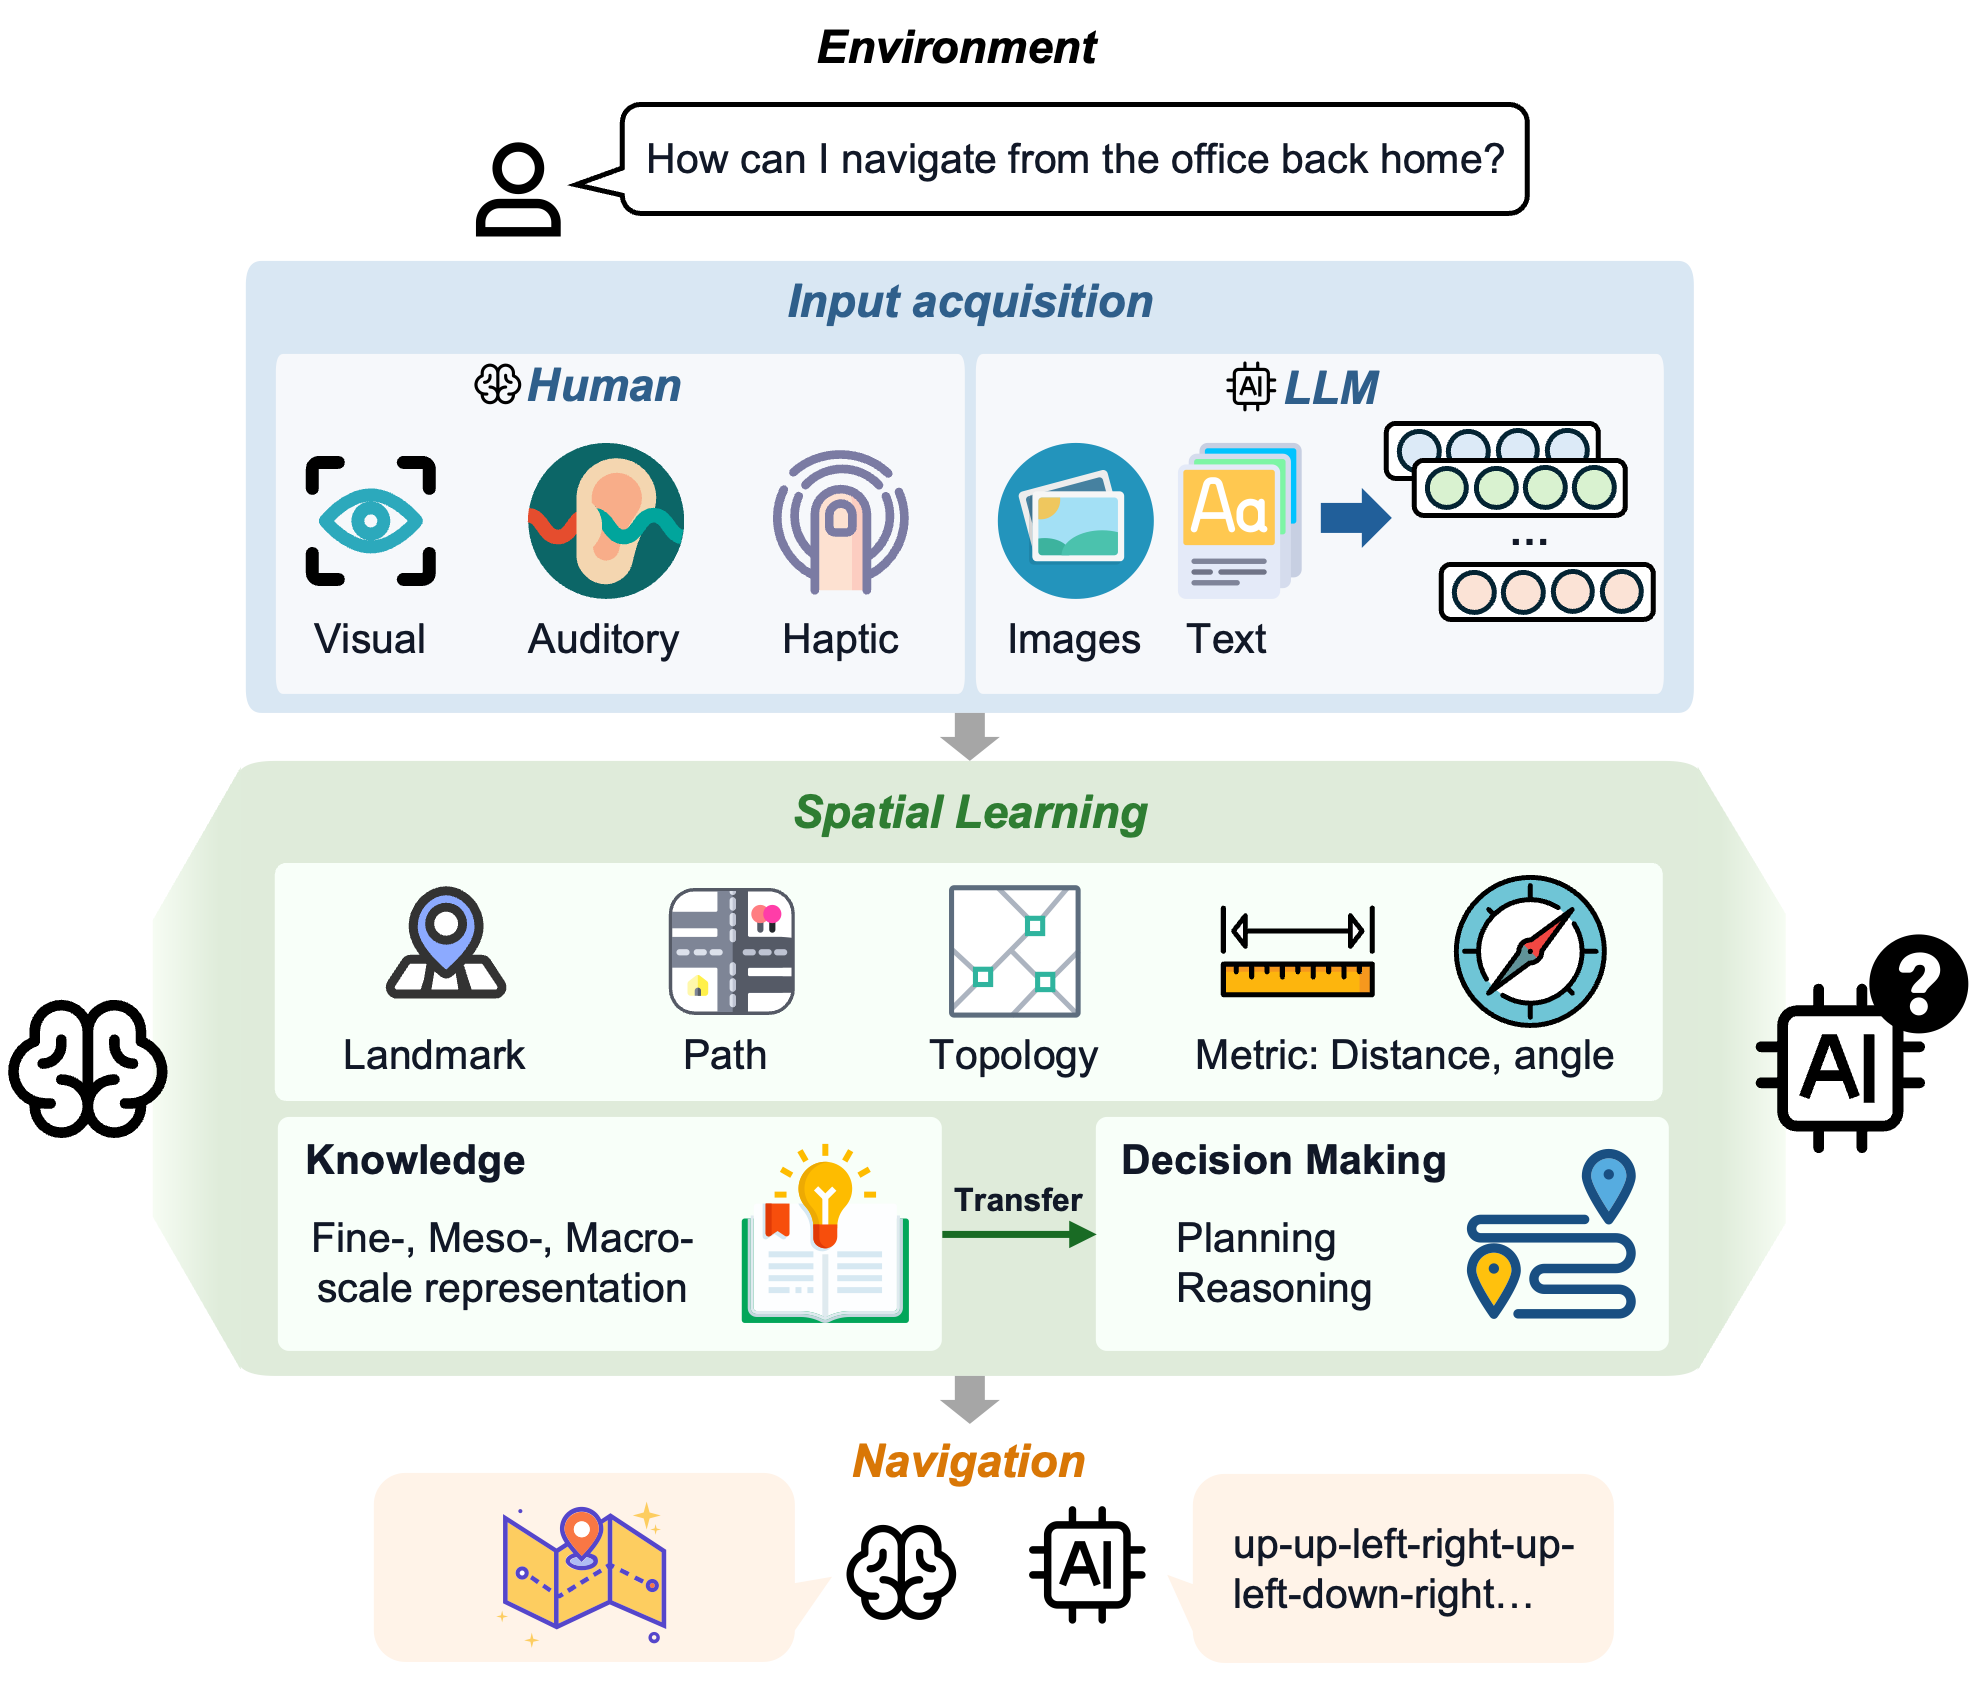
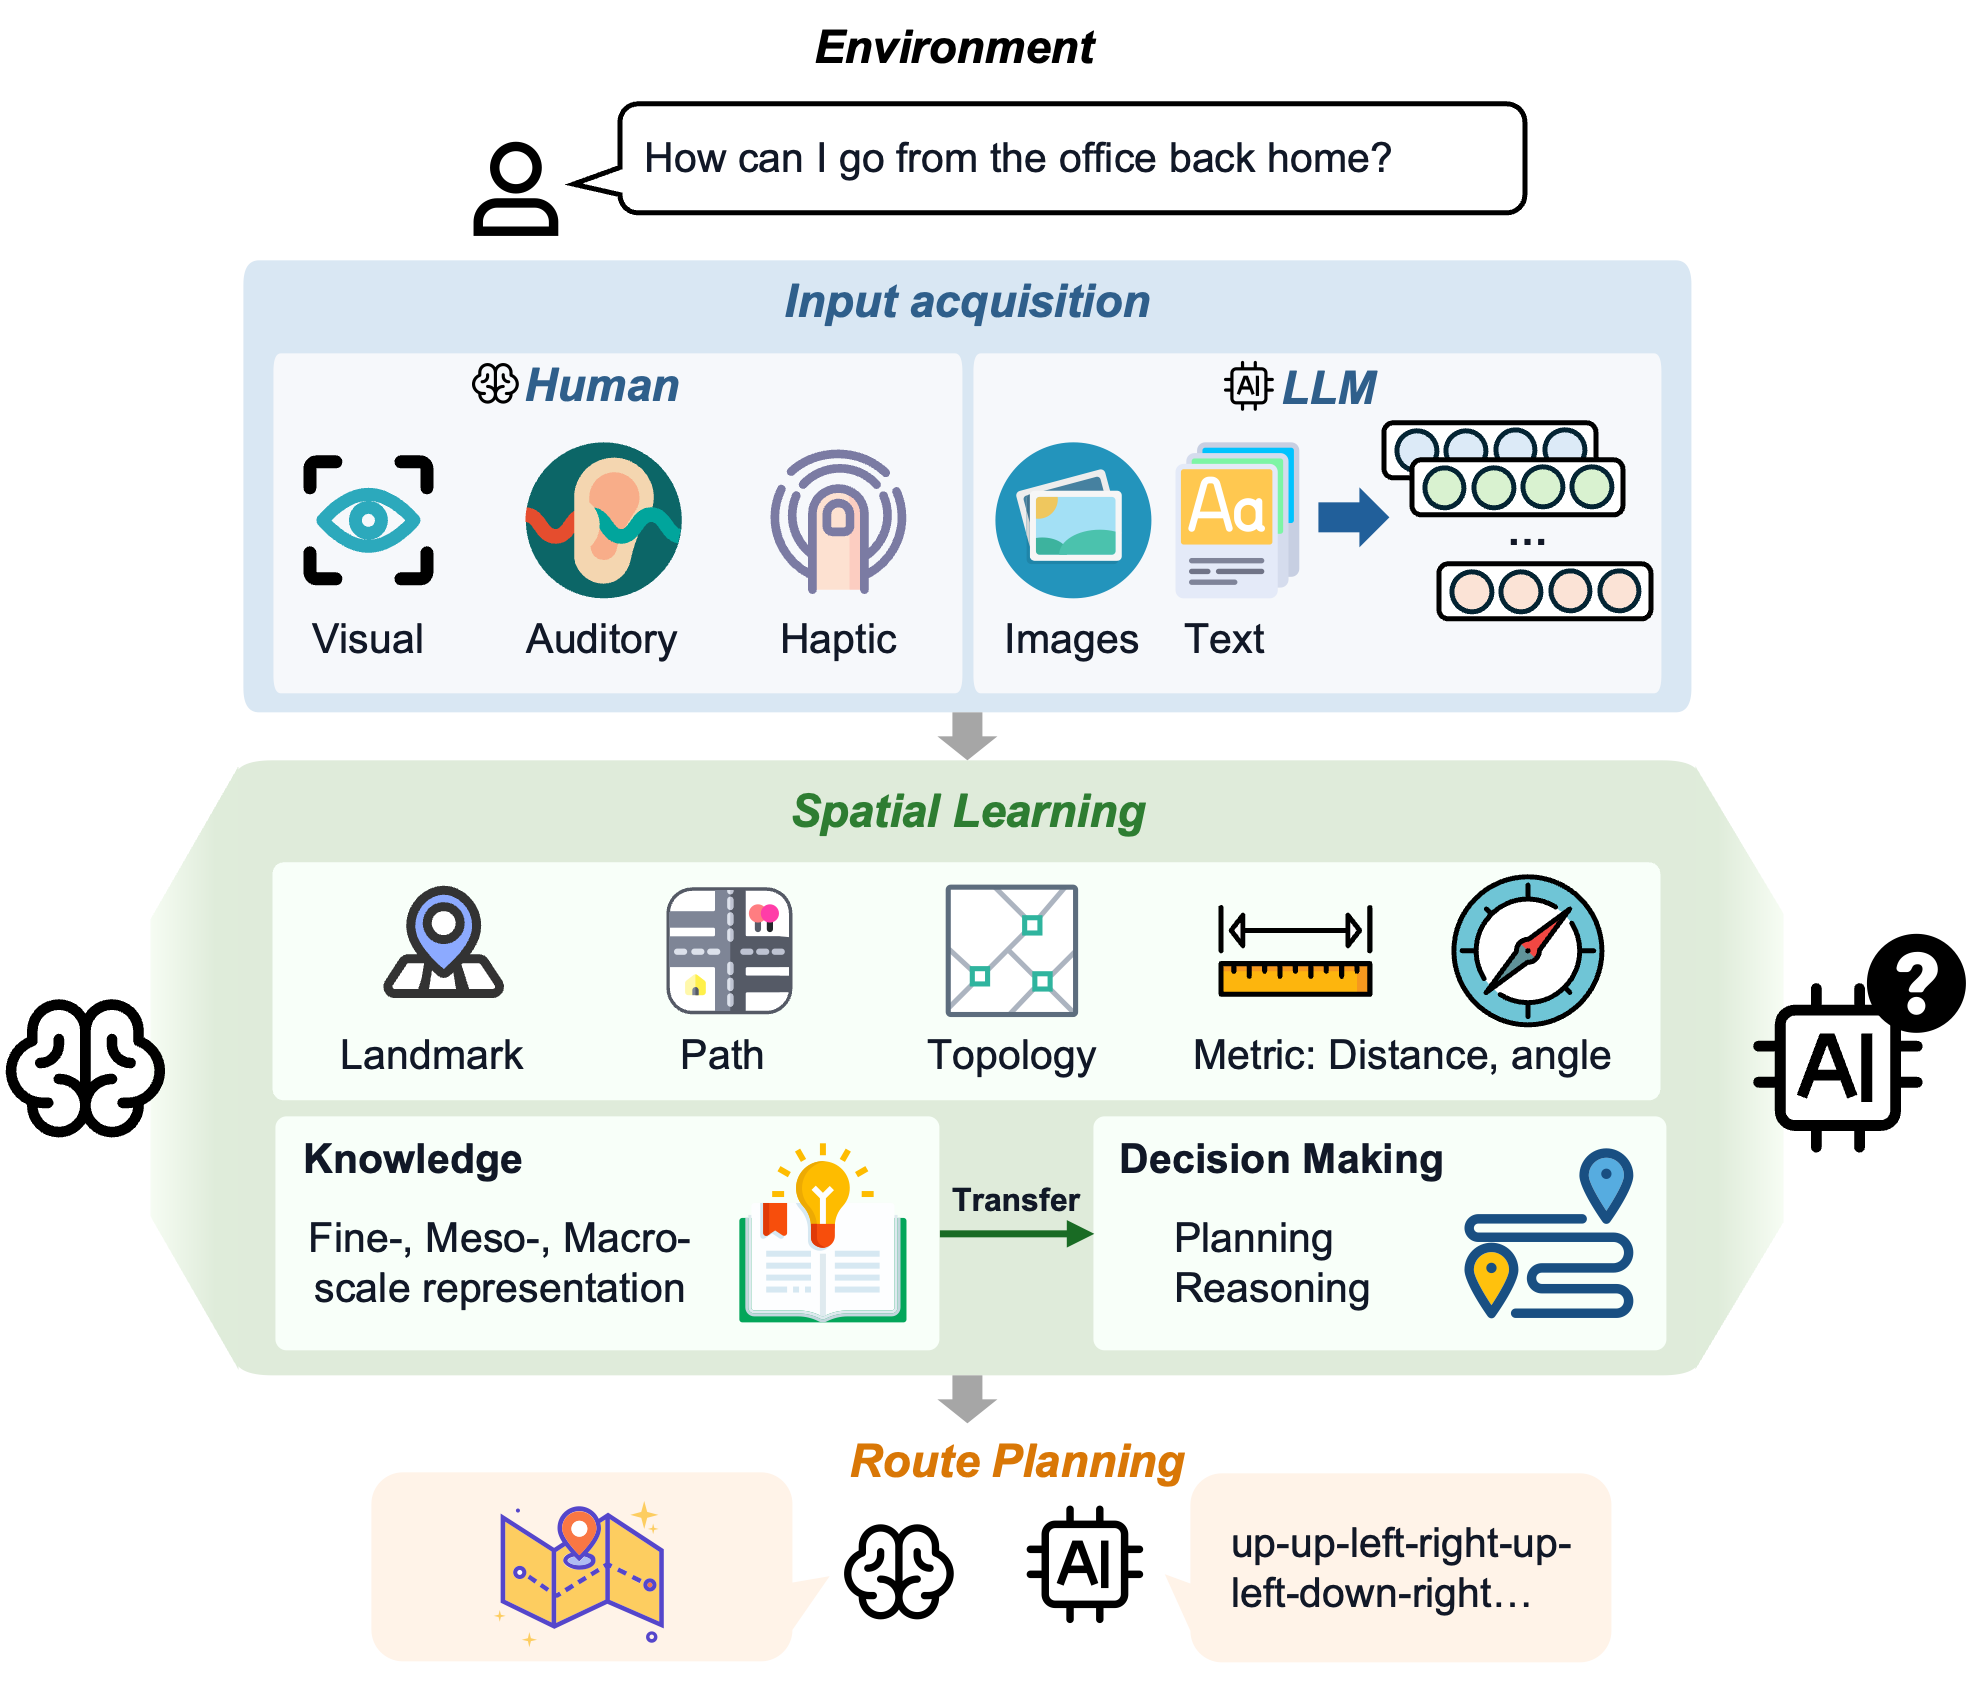
Sync title, abstract, and framework figures with the latest manuscript
Title is now "...for LLM Route Planning" across the page, metadata, BibTeX,
READMEs, and the social card. Abstract follows the current manuscript.
Framework (Figure 1) and benchmark overview (Figure 2, now with the
street-network module) are replaced with the manuscript versions.

diff --git a/docs/index.html b/docs/index.html
@@ -3,22 +3,22 @@
 <head>
 <meta charset="utf-8" />
 <meta name="viewport" content="width=device-width, initial-scale=1.0" />
-<title>Lost in Aggregation — A Multi-Scale Diagnostic Benchmark for LLM Spatial Navigation</title>
-<meta name="description" content="A cognitively grounded, multi-scale diagnostic benchmark for LLM spatial navigation: 1,050 topology-annotated mazes across seven sizes and three difficulty tiers, plus 90 real street-network routes in Munich, Tokyo, and Toronto." />
+<title>Lost in Aggregation — A Multi-Scale Diagnostic Benchmark for LLM Route Planning</title>
+<meta name="description" content="A multi-scale diagnostic benchmark for LLM route planning: 1,050 topology-annotated mazes across seven sizes and three difficulty tiers, plus 90 real street-network routes in Munich, Tokyo, and Toronto." />
 
 <!-- Social preview (Open Graph + Twitter). Absolute URLs required by crawlers. -->
 <meta property="og:type" content="website" />
 <meta property="og:site_name" content="Lost in Aggregation" />
 <meta property="og:url" content="https://yuhanjiang415.github.io/lost-in-aggregation/" />
-<meta property="og:title" content="Lost in Aggregation: A Multi-Scale Diagnostic Benchmark for LLM Spatial Navigation" />
-<meta property="og:description" content="Where do LLMs get lost in spatial navigation? A diagnostic benchmark of 1,050 topology-annotated mazes that localizes the failure to cross-scale aggregation." />
+<meta property="og:title" content="Lost in Aggregation: A Multi-Scale Diagnostic Benchmark for LLM Route Planning" />
+<meta property="og:description" content="Where do LLMs get lost in route planning? 1,050 topology-annotated mazes and 90 OpenStreetMap routes that separate isolated spatial judgments from complete-route success." />
 <meta property="og:image" content="https://yuhanjiang415.github.io/lost-in-aggregation/assets/og-image.png" />
 <meta property="og:image:width" content="1200" />
 <meta property="og:image:height" content="630" />
 <meta property="og:image:alt" content="Lost in Aggregation — a robot navigating a maze on a decision-point density heatmap." />
 <meta name="twitter:card" content="summary_large_image" />
-<meta name="twitter:title" content="Lost in Aggregation: A Multi-Scale Diagnostic Benchmark for LLM Spatial Navigation" />
-<meta name="twitter:description" content="Where do LLMs get lost in spatial navigation? 1,050 topology-annotated mazes that localize the failure to cross-scale aggregation." />
+<meta name="twitter:title" content="Lost in Aggregation: A Multi-Scale Diagnostic Benchmark for LLM Route Planning" />
+<meta name="twitter:description" content="Where do LLMs get lost in route planning? 1,050 mazes and 90 OpenStreetMap routes that separate isolated spatial judgments from complete-route success." />
 <meta name="twitter:image" content="https://yuhanjiang415.github.io/lost-in-aggregation/assets/og-image.png" />
 
 <style>
@@ -294,7 +294,7 @@
     <span class="venue">Preprint · Under review</span>
     <h1 class="title">
       Lost in Aggregation
-      <span class="sub">A Multi-Scale Diagnostic Benchmark for LLM Spatial Navigation</span>
+      <span class="sub">A Multi-Scale Diagnostic Benchmark for LLM Route Planning</span>
     </h1>
 
     <div class="authors">
@@ -318,8 +318,8 @@
 <section>
   <div class="wrap">
     <figure class="framed">
-      <img src="assets/figures/framework_intro.png" alt="From spatial input to navigation: where LLMs differ from human spatial cognition." loading="lazy" />
-      <figcaption><b>From spatial input to navigation.</b> The benchmark diagnoses LLM navigation by decomposing it into the same representational levels that structure human spatial cognition — <b style="color:var(--blue)">Fine</b> (local passability), <b style="color:var(--blue)">Meso</b> (junction topology), and <b style="color:var(--blue)">Macro</b> (global goal direction) — and probes each in isolation.</figcaption>
+      <img src="assets/figures/framework_intro.png" alt="Conceptual framework comparing human and LLM spatial cognition, from input acquisition through spatial learning to route planning." loading="lazy" />
+      <figcaption><b>From spatial input to route planning.</b> The benchmark diagnoses LLM route planning by decomposing it into the same representational levels that structure human spatial cognition — <b style="color:var(--blue)">Fine</b> (local passability), <b style="color:var(--blue)">Meso</b> (junction topology), and <b style="color:var(--blue)">Macro</b> (global goal direction) — and probes each in isolation.</figcaption>
     </figure>
   </div>
 </section>
@@ -328,9 +328,9 @@
 <section class="alt">
   <div class="wrap">
     <h2 class="sec"><span class="kicker">Overview</span>Abstract</h2>
-    <p>Large language models (LLMs) are increasingly deployed as planners and assistants in tasks with inherent spatial structure, such as navigation and route planning, yet they remain brittle in sequential spatial reasoning. We ask not merely <em>whether</em> LLMs fail at navigation but <em>where</em> in the spatial-cognition pipeline they get lost.</p>
-    <p>We introduce a multi-scale diagnostic benchmark that decomposes maze navigation into three cognitive levels drawn from human spatial cognition: <b>Fine</b> (local passability), <b>Meso</b> (junction topology), and <b>Macro</b> (global goal direction). We evaluate three instruction-tuned chat LLMs (GPT-4o, DeepSeek-V3.1, Llama-3.3-70B) on 1,050 topology-annotated mazes spanning seven sizes (3×3 to 30×30) and three difficulty tiers.</p>
-    <p>The central finding: end-to-end one-shot navigation collapses to near zero by 10×10 for every model, yet the same models answer isolated single-level probes at 30–75% far beyond that size. A multi-hot first-error analysis localizes failures to Meso junction choices (59%) and Fine perception (39%), with global direction almost never at fault (1%). <b>The barrier is the cross-scale <em>aggregation</em> of individually available competences over a long sequential plan — not any single perceptual deficit.</b></p>
+    <p>Large language models (LLMs) struggle with sequential spatial planning, but aggregate success rates provide little insight into where failures occur. We present a multi-scale benchmark that separates local passability (<b>Fine</b>), junction topology (<b>Meso</b>), and goal orientation (<b>Macro</b>). We evaluate three LLMs on 1,050 mazes spanning seven sizes and compare four input formats. Coordinate lists are the most effective text encoding overall.</p>
+    <p>Isolated probes assess individual spatial judgments, while one-shot planning requires the model to aggregate many such judgments into a complete route. At 10×10, complete-route success falls to 0 to 6%, while isolated-probe accuracy remains approximately 30 to 75%. Success on individual judgments therefore does not ensure reliable route generation. First errors occur mainly at the Meso (59%) and Fine (39%) scales, with Macro errors accounting for about 1%.</p>
+    <p>On 90 OpenStreetMap routes in three cities, GPT-4o’s isolated junction-choice accuracy reaches 64.7%, compared with 13.3% complete-route success. Most of its failed routes included a nonexistent street connection, often a final jump onto the destination. <b>These findings suggest that difficulties in coordinating Fine, Meso, and Macro judgments contribute to route-planning failures.</b></p>
 
     <div class="stats" style="margin-top:30px">
       <div class="stat"><div class="num">1,050</div><div class="lab">topology-annotated mazes</div></div>
@@ -371,8 +371,8 @@
   <div class="wrap">
     <h2 class="sec"><span class="kicker">The Benchmark</span>Design at a glance</h2>
     <figure class="framed">
-      <img src="assets/figures/framework_detail.png" alt="Benchmark overview: maze corpus, three modules, and a metrics and failure-signature panel." loading="lazy" />
-      <figcaption><b>Benchmark overview.</b> <b>&#9312; Input acquisition</b> — each maze is rendered as Words, Coordinates, an ASCII Map, or an Image. <b>&#9313; Multi-scale representation</b> — one-shot navigation is decomposed into Fine / Meso / Macro, each probed in isolation. <b>&#9314; Hierarchical route planning</b> — One-shot, Topology-blind Junction, and Topology-aided Junction delegation regimes. Trials are scored by success and a failure-signature vocabulary.</figcaption>
+      <img src="assets/figures/framework_detail.png" alt="Benchmark overview: the maze corpus, the three maze modules, the transfer to real street networks, and the metrics and failure-signature vocabulary." loading="lazy" />
+      <figcaption><b>Benchmark overview.</b> <b>&#9312; Input acquisition</b> — each maze is presented as Words, Coordinates, an ASCII Map, or an Image. <b>&#9313; Multi-scale representation</b> — one-shot route planning is decomposed into Fine / Meso / Macro, each probed in isolation. <b>&#9314; Hierarchical route planning</b> — One-shot, Topology-blind Junction, and Topology-aided Junction delegation regimes. <b>&#9315; Transfer to real street networks</b> — the analogous isolated judgments (neighbor identification, junction choice) and the complete-route task on 90 OpenStreetMap routes. Trials are scored by success and a failure-signature vocabulary.</figcaption>
     </figure>
 
     <div style="margin-top:30px">
@@ -648,7 +648,7 @@
     </div>
 <pre class="bib" id="bibtex">@misc{jiang2026lostinaggregation,
   title        = {Lost in Aggregation: A Multi-Scale Diagnostic Benchmark
-                  for LLM Spatial Navigation},
+                  for LLM Route Planning},
   author       = {Jiang, Yuhan and Luo, Peng and Meng, Liqiu},
   year         = {2026},
   note         = {Preprint, under review},
@@ -659,7 +659,7 @@
 
 <footer>
   <div class="wrap">
-    <p>Lost in Aggregation — A Multi-Scale Diagnostic Benchmark for LLM Spatial Navigation · Preprint · Under review<br/>
+    <p>Lost in Aggregation — A Multi-Scale Diagnostic Benchmark for LLM Route Planning · Preprint · Under review<br/>
     Yuhan Jiang · Peng Luo · Liqiu Meng &nbsp;|&nbsp; Page built for benchmark release.</p>
   </div>
 </footer>

diff --git a/README.md b/README.md
@@ -1,18 +1,19 @@
 # Lost in Aggregation
 
-**A Multi-Scale Diagnostic Benchmark for LLM Spatial Navigation**
+**A Multi-Scale Diagnostic Benchmark for LLM Route Planning**
 Yuhan Jiang · Peng Luo · Liqiu Meng — Preprint, under review
 
 > 🌐 **Project page:** https://yuhanjiang415.github.io/lost-in-aggregation/
 
-We ask not merely *whether* LLMs fail at maze navigation but *where* in the
-spatial-cognition pipeline they get lost. The benchmark decomposes navigation
-into three cognitive levels — **Fine** (local passability), **Meso** (junction
-topology), and **Macro** (global goal direction) — and probes each in
-isolation across a systematic size sweep. The central finding: end-to-end
-navigation collapses long before any single competence does, so the binding
-constraint is the cross-scale *aggregation* of individually available skills
-over a long sequential plan.
+LLMs struggle with sequential spatial planning, but aggregate success rates say
+little about where failures occur. The benchmark separates local passability
+(**Fine**), junction topology (**Meso**), and goal orientation (**Macro**),
+probes each in isolation, and compares that with one-shot planning, where the
+model must aggregate many such judgments into a complete route. At 10×10,
+complete-route success falls to 0–6% while isolated-probe accuracy stays at
+roughly 30–75%; first errors occur mainly at the Meso (59%) and Fine (39%)
+scales. On 90 OpenStreetMap routes in three cities, GPT-4o's isolated
+junction-choice accuracy reaches 64.7%, against 13.3% complete-route success.
 
 ## Benchmark data
 
@@ -62,7 +63,7 @@ the street-network routes in [`road_network/`](road_network/).
 ```bibtex
 @misc{jiang2026lostinaggregation,
   title        = {Lost in Aggregation: A Multi-Scale Diagnostic Benchmark
-                  for LLM Spatial Navigation},
+                  for LLM Route Planning},
   author       = {Jiang, Yuhan and Luo, Peng and Meng, Liqiu},
   year         = {2026},
   note         = {Preprint, under review},

diff --git a/docs/README.md b/docs/README.md
@@ -1,7 +1,7 @@
 # Project homepage — *Lost in Aggregation*
 
 A self-contained static project page for the benchmark
-**Lost in Aggregation: A Multi-Scale Diagnostic Benchmark for LLM Spatial Navigation**
+**Lost in Aggregation: A Multi-Scale Diagnostic Benchmark for LLM Route Planning**
 (ACM SIGSPATIAL 2026, Benchmark Track).
 
 ```
